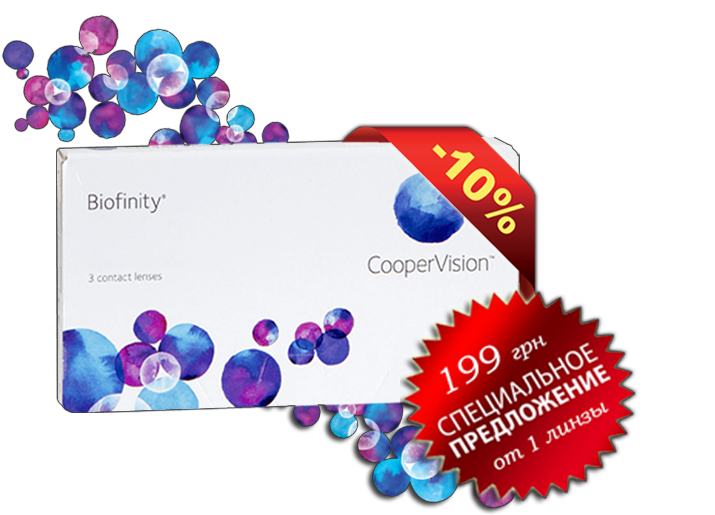
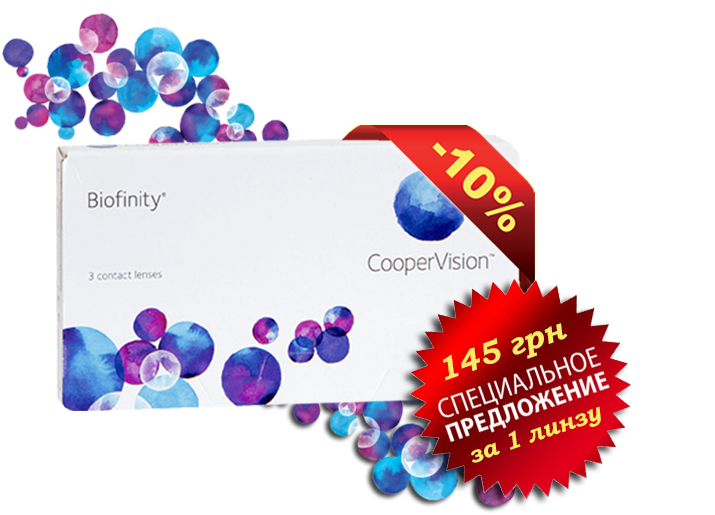
ud

diff --git a/index.html b/index.html
@@ -344,7 +344,6 @@
                             <p class="clearfix">
                             <h3 class="text-blue" style="font-family: Tahoma;">Формуляр заказа:</h3>
                             <br>
-                            <div id="formmessage"></div>
                             <div class="tab round">
                                 <ul class="nav nav-tabs" id="myTab" role="tablist">
                                     <li class="nav-item">
@@ -374,55 +373,27 @@
                                                         <div class="col-lg-3 col-md-4 col-sm-5 align">
                                                             <label for="optics-1">Оптическая сила</label>
                                                             <select name="optics" id="optics-1" class="form-control">
-                                                                <option value="-12.00">-12.00</option>
-                                                                <option value="-11.50">-11.50</option>
-                                                                <option value="-11.00">-11.00</option>
-                                                                <option value="-10.50">-10.50</option>
-                                                                <option value="-10.00">-10.00</option>
-                                                                <option value="-9.50">-9.50</option>
-                                                                <option value="-9.00">-9.00</option>
-                                                                <option value="-8.50">-8.50</option>
-                                                                <option value="-8.00">-8.00</option>
-                                                                <option value="-7.50">-7.50</option>
-                                                                <option value="-7.00">-7.00</option>
-                                                                <option value="-6.50">-6.50</option>
-                                                                <option value="-6.00">-6.00</option>
-                                                                <option value="-5.75">-5.75</option>
-                                                                <option value="-5.50">-5.50</option>
-                                                                <option value="-5.25">-5.25</option>
-                                                                <option value="-5.00">-5.00</option>
-                                                                <option value="-4.75">-4.75</option>
-                                                                <option value="-4.50">-4.50</option>
-                                                                <option value="-4.25">-4.25</option>
-                                                                <option value="-4.00">-4.00</option>
-                                                                <option value="-3.75">-3.75</option>
-                                                                <option value="-3.50">-3.50</option>
-                                                                <option value="-3.25">-3.25</option>
-                                                                <option value="-3.00">-3.00</option>
-                                                                <option value="-2.75">-2.75</option>
-                                                                <option value="-2.50">-2.50</option>
-                                                                <option value="-2.25">-2.25</option>
-                                                                <option value="-2.00">-2.00</option>
-                                                                <option value="-1.75">-1.75</option>
-                                                                <option value="-1.50">-1.50</option>
-                                                                <option value="-1.25">-1.25</option>
                                                                 <option value="-1.00">-1.00</option>
-                                                                <option value="-0.75">-0.75</option>
-                                                                <option value="-0.50">-0.50</option>
-                                                                <option value="+0.50">+0.50</option>
-                                                                <option value="+1.00">+1.00</option>
-                                                                <option value="+1.50">+1.50</option>
-                                                                <option value="+2.00">+2.00</option>
-                                                                <option value="+2.50">+2.50</option>
-                                                                <option value="+3.00">+3.00</option>
-                                                                <option value="+3.50">+3.50</option>
-                                                                <option value="+4.00">+4.00</option>
-                                                                <option value="+4.50">+4.50</option>
-                                                                <option value="+5.00">+5.00</option>
-                                                                <option value="+5.50">+5.50</option>
-                                                                <option value="+6.00">+6.00</option>
-                                                                <option value="+7.00">+7.00</option>
-                                                                <option value="+8.00">+8.00</option>
+                                                                <option value="-1.25">-1.25</option>
+                                                                <option value="-1.50">-1.50</option>
+                                                                <option value="-1.75">-1.75</option>
+                                                                <option value="-2.00">-2.00</option>
+                                                                <option value="-2.25">-2.25</option>
+                                                                <option value="-2.50">-2.50</option>
+                                                                <option value="-2.75">-2.75</option>
+                                                                <option value="-3.00">-3.00</option>
+                                                                <option value="-3.25">-3.25</option>
+                                                                <option value="-3.50">-3.50</option>
+                                                                <option value="-3.75">-3.75</option>
+                                                                <option value="-4.00">-4.00</option>
+                                                                <option value="-4.25">-4.25</option>
+                                                                <option value="-4.50">-4.50</option>
+                                                                <option value="-4.75">-4.75</option>
+                                                                <option value="-5.00">-5.00</option>
+                                                                <option value="-5.25">-5.25</option>
+                                                                <option value="-5.50">-5.50</option>
+                                                                <option value="-5.75">-5.75</option>
+                                                                <option value="-6.00">-6.00</option>
                                                             </select>
                                                         </div>
                                                         <div class="col-lg-2 col-md-4 col-sm-4 align">
@@ -456,6 +427,7 @@
                                                 <button id="open_modal_form" name="submit" type="submit" value="Send"
                                                         class="button"><span style="font-family: Tahoma;">Купить в 1 клик</span>
                                                     <i class="fa fa-paper-plane"></i></button>
+                                                <p>(От 4 линз доставка бесплатно)</p>
                                                 <div id="modal_form">
                                                     <div class="section-field">
                                                         <span id="modal_close">X</span>
@@ -502,55 +474,27 @@
                                                         <div class="col-lg-3 col-md-4 col-sm-5 align">
                                                             <label for="optics-2-1">Оптическая сила</label>
                                                             <select name="optics_left" id="optics-2-1" class="form-control">
-                                                                <option value="-12.00">-12.00</option>
-                                                                <option value="-11.50">-11.50</option>
-                                                                <option value="-11.00">-11.00</option>
-                                                                <option value="-10.50">-10.50</option>
-                                                                <option value="-10.00">-10.00</option>
-                                                                <option value="-9.50">-9.50</option>
-                                                                <option value="-9.00">-9.00</option>
-                                                                <option value="-8.50">-8.50</option>
-                                                                <option value="-8.00">-8.00</option>
-                                                                <option value="-7.50">-7.50</option>
-                                                                <option value="-7.00">-7.00</option>
-                                                                <option value="-6.50">-6.50</option>
-                                                                <option value="-6.00">-6.00</option>
-                                                                <option value="-5.75">-5.75</option>
-                                                                <option value="-5.50">-5.50</option>
-                                                                <option value="-5.25">-5.25</option>
-                                                                <option value="-5.00">-5.00</option>
-                                                                <option value="-4.75">-4.75</option>
-                                                                <option value="-4.50">-4.50</option>
-                                                                <option value="-4.25">-4.25</option>
-                                                                <option value="-4.00">-4.00</option>
-                                                                <option value="-3.75">-3.75</option>
-                                                                <option value="-3.50">-3.50</option>
-                                                                <option value="-3.25">-3.25</option>
-                                                                <option value="-3.00">-3.00</option>
-                                                                <option value="-2.75">-2.75</option>
-                                                                <option value="-2.50">-2.50</option>
-                                                                <option value="-2.25">-2.25</option>
-                                                                <option value="-2.00">-2.00</option>
-                                                                <option value="-1.75">-1.75</option>
-                                                                <option value="-1.50">-1.50</option>
+                                                                 <option value="-1.00">-1.00</option>
                                                                 <option value="-1.25">-1.25</option>
-                                                                <option value="-1.00">-1.00</option>
-                                                                <option value="-0.75">-0.75</option>
-                                                                <option value="-0.50">-0.50</option>
-                                                                <option value="+0.50">+0.50</option>
-                                                                <option value="+1.00">+1.00</option>
-                                                                <option value="+1.50">+1.50</option>
-                                                                <option value="+2.00">+2.00</option>
-                                                                <option value="+2.50">+2.50</option>
-                                                                <option value="+3.00">+3.00</option>
-                                                                <option value="+3.50">+3.50</option>
-                                                                <option value="+4.00">+4.00</option>
-                                                                <option value="+4.50">+4.50</option>
-                                                                <option value="+5.00">+5.00</option>
-                                                                <option value="+5.50">+5.50</option>
-                                                                <option value="+6.00">+6.00</option>
-                                                                <option value="+7.00">+7.00</option>
-                                                                <option value="+8.00">+8.00</option>
+                                                                <option value="-1.50">-1.50</option>
+                                                                <option value="-1.75">-1.75</option>
+                                                                <option value="-2.00">-2.00</option>
+                                                                <option value="-2.25">-2.25</option>
+                                                                <option value="-2.50">-2.50</option>
+                                                                <option value="-2.75">-2.75</option>
+                                                                <option value="-3.00">-3.00</option>
+                                                                <option value="-3.25">-3.25</option>
+                                                                <option value="-3.50">-3.50</option>
+                                                                <option value="-3.75">-3.75</option>
+                                                                <option value="-4.00">-4.00</option>
+                                                                <option value="-4.25">-4.25</option>
+                                                                <option value="-4.50">-4.50</option>
+                                                                <option value="-4.75">-4.75</option>
+                                                                <option value="-5.00">-5.00</option>
+                                                                <option value="-5.25">-5.25</option>
+                                                                <option value="-5.50">-5.50</option>
+                                                                <option value="-5.75">-5.75</option>
+                                                                <option value="-6.00">-6.00</option>
                                                             </select>
                                                         </div>
                                                         <div class="col-lg-2 col-md-4 col-sm-4 align">
@@ -591,55 +535,27 @@
                                                         <div class="col-lg-3 col-md-4 col-sm-5 align">
                                                             <label for="optics-2-2">Оптическая сила</label>
                                                             <select name="optics_right" id="optics-2-2" class="form-control">
-                                                                <option value="-12.00">-12.00</option>
-                                                                <option value="-11.50">-11.50</option>
-                                                                <option value="-11.00">-11.00</option>
-                                                                <option value="-10.50">-10.50</option>
-                                                                <option value="-10.00">-10.00</option>
-                                                                <option value="-9.50">-9.50</option>
-                                                                <option value="-9.00">-9.00</option>
-                                                                <option value="-8.50">-8.50</option>
-                                                                <option value="-8.00">-8.00</option>
-                                                                <option value="-7.50">-7.50</option>
-                                                                <option value="-7.00">-7.00</option>
-                                                                <option value="-6.50">-6.50</option>
-                                                                <option value="-6.00">-6.00</option>
-                                                                <option value="-5.75">-5.75</option>
-                                                                <option value="-5.50">-5.50</option>
-                                                                <option value="-5.25">-5.25</option>
-                                                                <option value="-5.00">-5.00</option>
-                                                                <option value="-4.75">-4.75</option>
-                                                                <option value="-4.50">-4.50</option>
-                                                                <option value="-4.25">-4.25</option>
-                                                                <option value="-4.00">-4.00</option>
-                                                                <option value="-3.75">-3.75</option>
-                                                                <option value="-3.50">-3.50</option>
-                                                                <option value="-3.25">-3.25</option>
-                                                                <option value="-3.00">-3.00</option>
-                                                                <option value="-2.75">-2.75</option>
-                                                                <option value="-2.50">-2.50</option>
-                                                                <option value="-2.25">-2.25</option>
-                                                                <option value="-2.00">-2.00</option>
-                                                                <option value="-1.75">-1.75</option>
-                                                                <option value="-1.50">-1.50</option>
+                                                                 <option value="-1.00">-1.00</option>
                                                                 <option value="-1.25">-1.25</option>
-                                                                <option value="-1.00">-1.00</option>
-                                                                <option value="-0.75">-0.75</option>
-                                                                <option value="-0.50">-0.50</option>
-                                                                <option value="+0.50">+0.50</option>
-                                                                <option value="+1.00">+1.00</option>
-                                                                <option value="+1.50">+1.50</option>
-                                                                <option value="+2.00">+2.00</option>
-                                                                <option value="+2.50">+2.50</option>
-                                                                <option value="+3.00">+3.00</option>
-                                                                <option value="+3.50">+3.50</option>
-                                                                <option value="+4.00">+4.00</option>
-                                                                <option value="+4.50">+4.50</option>
-                                                                <option value="+5.00">+5.00</option>
-                                                                <option value="+5.50">+5.50</option>
-                                                                <option value="+6.00">+6.00</option>
-                                                                <option value="+7.00">+7.00</option>
-                                                                <option value="+8.00">+8.00</option>
+                                                                <option value="-1.50">-1.50</option>
+                                                                <option value="-1.75">-1.75</option>
+                                                                <option value="-2.00">-2.00</option>
+                                                                <option value="-2.25">-2.25</option>
+                                                                <option value="-2.50">-2.50</option>
+                                                                <option value="-2.75">-2.75</option>
+                                                                <option value="-3.00">-3.00</option>
+                                                                <option value="-3.25">-3.25</option>
+                                                                <option value="-3.50">-3.50</option>
+                                                                <option value="-3.75">-3.75</option>
+                                                                <option value="-4.00">-4.00</option>
+                                                                <option value="-4.25">-4.25</option>
+                                                                <option value="-4.50">-4.50</option>
+                                                                <option value="-4.75">-4.75</option>
+                                                                <option value="-5.00">-5.00</option>
+                                                                <option value="-5.25">-5.25</option>
+                                                                <option value="-5.50">-5.50</option>
+                                                                <option value="-5.75">-5.75</option>
+                                                                <option value="-6.00">-6.00</option>
                                                             </select>
                                                         </div>
                                                         <div class="col-lg-2 col-md-4 col-sm-4 align">
@@ -673,6 +589,7 @@
                                                 <button id="open_modal_form-2" name="submit" type="submit" value="Send"
                                                         class="button"><span style="font-family: Tahoma;">Купить в 1 клик</span>
                                                     <i class="fa fa-paper-plane"></i></button>
+                                                <p>(От 4 линз доставка бесплатно)</p>
                                                 <div id="modal_form-2">
                                                     <div class="section-field">
                                                         <span id="modal_close-2">X</span>
@@ -700,6 +617,7 @@
                                     </div>
                                 </div>
                             </div>
+                            <div id="formmessage"></div>
                             <div id="ajaxloader" style="display:none"><img
                                     class="mx-auto mt-30 mb-30 d-block"
                                     src="images/pre-loader/loader-02.svg" alt=""></div>

diff --git a/js/prices.js b/js/prices.js
@@ -6,13 +6,13 @@ function prices_f_1() {
     var total = 0;
 
     if (amount_sum < 4) {
-        price = 179;
+        price = 149;
         total = amount_sum * price;
     } else if (3 < amount_sum < 7) {
-        price = 169;
+        price = 139;
         total = amount_sum * price;
     } else if (amount_sum > 6) {
-        price = 149;
+        price = 119;
         total = amount_sum * price;
     }
 
@@ -31,13 +31,13 @@ function prices_f_2() {
     var total = 0;
 
     if (amount_sum < 4) {
-        price = 179;
+        price = 149;
         total = amount_sum * price;
     } else if (3 < amount_sum < 7) {
-        price = 169;
+        price = 139;
         total = amount_sum * price;
     } else if (amount_sum > 6) {
-        price = 149;
+        price = 119;
         total = amount_sum * price;
     }
 

diff --git a/js/modal-form.js b/js/modal-form.js
@@ -3,9 +3,9 @@ $(document).ready(function() {
 		event.preventDefault();
 			$('#modal_form')
 				.css('display', 'block')
-				.animate({opacity: 1, top: '75%'}, 200);
+				.animate({opacity: 1, top: '70%'}, 200);
 	});
-	$('#modal_close').click( function(){
+	$('#modal_close, #submit-1').click( function(){
 		$('#modal_form')
 			.animate({opacity: 0, top: '45%'}, 200,
 				function(){
@@ -22,7 +22,7 @@ $(document).ready(function() {
 				.css('display', 'block')
 				.animate({opacity: 1, top: '82%'}, 200);
 	});
-	$('#modal_close-2').click( function(){
+	$('#modal_close-2, #submit-2').click( function(){
 		$('#modal_form-2')
 			.animate({opacity: 0, top: '45%'}, 200,
 				function(){

diff --git a/css/plumber.css b/css/plumber.css
@@ -52,7 +52,7 @@ h1, h2, h3, h4, h5, h6 { font-family: 'Tahoma', cursive; }
 /*plumber-contact*/
 .plumber-contact-bg { padding: 30px; box-shadow:  0px 5px 16px 0 rgba(0, 0, 0, 0.1); position: relative; margin-top: -100px; background: #ffffff; }
 .plumber-contact .contact-form .section-field { width: 100%; margin-right: 0; }
-.plumber-contact .contact-form .section-field .form-control { background: #f7c605; font-size: 16px; }
+.plumber-contact .contact-form .section-field .form-control { background: #f7c605; font-size: 15px; }
 .plumber-contact .contact-form .section-field select { height: 46px; }
 .action-box { padding: 30px 0; }
 
